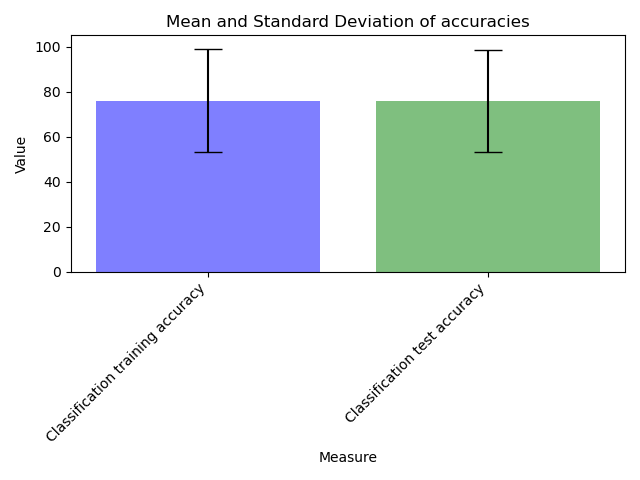
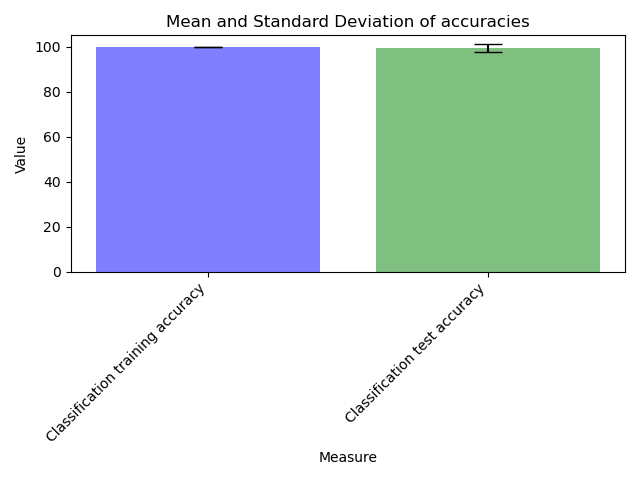
First differential experiments

diff --git a/main.py b/main.py
@@ -21,7 +21,7 @@ def main():
     EPOCHS = 150
     # -1 training subcortex 0 training cortex, 1 sanity check, 2 and 3 training/testing subcort and cort, 4 and 5 plotting subcort and cort,
     # 6 test full brain, 7 step-wise analysis
-    TRAINING = 7
+    TRAINING = 4
 
     device = torch.device("cuda" if torch.cuda.is_available() else "cpu")
 
@@ -120,9 +120,9 @@ def main():
     elif TRAINING == 4:
         measures = np.load('measures_subcortex.npy')
         brightnesses = np.load('brightnesses_subcortex.npy')
-        plot_accuracy(measures[:, :2], True, False)
-        plot_ratio(measures[:, 2:], True, False)
-        plot_equal_brightness(brightnesses, True, False, True)
+        plot_accuracy(measures[:, :2], True, True)
+        plot_ratio(measures[:, 2:], True, True)
+        plot_equal_brightness(brightnesses, True, True, True)
 
     elif TRAINING == 5:
         measures = np.load('measures.npy')
@@ -142,11 +142,10 @@ def main():
 
         network = ANNBrain(cortex, subcortex)
 
-        accuracy, ratio = test_brain(network, cues, cue_labels, stimuli, stimuli_labels, device)
+        accuracy = test_brain(network, cues, cue_labels, stimuli, stimuli_labels, device)
+        print(accuracy)
 
-        measures = np.array([accuracy, ratio])
-
-        plot_brain(measures, False, False)
+        # plot_brain(measures, False, False) Deprecated: plots subcortex ratio when outputs are concatenated
 
     elif TRAINING == 7:
 

diff --git a/image_generator.py b/image_generator.py
@@ -77,23 +77,6 @@ def interleave(cues, cue_labels, stimuli, stimuli_labels) -> (npt.NDArray, List)
     return images, labels
 
 
-def generate_motor_labels(cue_labels, stimuli_labels) -> List:  # TODO: move this into utilfuncs
-
-    motor_labels = []
-    for cue_label, stimulus_label in zip(cue_labels, stimuli_labels):
-        match (cue_label, stimulus_label):
-            case (2, 0):  # PS, left brighter: left
-                motor_labels.append(0)
-            case (2, 1):  # PS, right brighter: right
-                motor_labels.append(1)
-            case (3, 0):  # AS, left brighter: right
-                motor_labels.append(1)
-            case (3, 1):  # AS, right brighter: left
-                motor_labels.append(0)
-
-    return motor_labels
-
-
 def generate_test_set() -> (npt.NDArray, List):
     """Generate test set using stimuli with 2 decimal positions (training set only uses 1 decimal position)"""
 

diff --git a/utilfuncs.py b/utilfuncs.py
@@ -1,4 +1,5 @@
 import torch
+from typing import List
 
 
 def stimuli_extractor(batch):
@@ -26,3 +27,20 @@ def get_possible_labels(cue_label, stimulus_label):
             motor_label = [0]
 
     return motor_label
+
+
+def generate_motor_labels(cue_labels, stimuli_labels) -> List:
+
+    motor_labels = []
+    for cue_label, stimulus_label in zip(cue_labels, stimuli_labels):
+        match (cue_label, stimulus_label):
+            case (2, 0):  # PS, left brighter: left
+                motor_labels.append(0)
+            case (2, 1):  # PS, right brighter: right
+                motor_labels.append(1)
+            case (3, 0):  # AS, left brighter: right
+                motor_labels.append(1)
+            case (3, 1):  # AS, right brighter: left
+                motor_labels.append(0)
+
+    return motor_labels

diff --git a/testing.py b/testing.py
@@ -164,18 +164,11 @@ def test_brain(network, cues, cue_labels, stimuli, stimuli_labels, device):
             total += predicted.size(0)
             correct_classified += 1 if predicted in labels else 0
 
-            if cue_label == 2:
-                total_subcortex += predicted.size(0)
-                if predicted.item() > 1:
-                    used_subcortex += predicted.size(0)
-
     classification_accuracy = 100 * correct_classified / total
-    subcortex_ratio = 100 * used_subcortex / total_subcortex
 
     print('Classification accuracy: ' + str(classification_accuracy))
-    print('Subcortex ratio: ' + str(subcortex_ratio))
 
-    return classification_accuracy, subcortex_ratio
+    return classification_accuracy
 
 
 def get_outputs(network, cues, stimuli):

diff --git a/test_dynamics.py b/test_dynamics.py
@@ -1,0 +1,34 @@
+import numpy as np
+import matplotlib.pyplot as plt
+
+total_time = 1000
+t_constant = 10  # seconds
+dt = [0.01, 0.1, 1, 10, 100, 1000]
+x0 = 1
+
+
+def formula(a):
+    return - a / t_constant
+
+
+values = np.zeros((len(dt), total_time))
+for i in range(len(dt)):
+    x = x0
+    for j in range(total_time):
+
+        x = x + dt[i] * formula(x)
+        print(x)
+        values[i, j] = x
+
+for i in range(4):
+    plt.plot(values[i, :], label=f'Timestep size: {dt[i]}')
+
+plt.legend()
+plt.show()
+
+plt.clf()
+for i in range(4, 6):
+    plt.plot(values[i, :], label=f'Timestep size: {dt[i]}')
+
+plt.legend()
+plt.show()

diff --git a/brain.py b/brain.py
@@ -25,9 +25,9 @@ class ANNBrain(nn.Module):
 
         x_cortex = self.cortex(x, cue)
 
-        x = torch.cat([x_cortex, x_subcortex], dim=1)
+        # x = torch.cat([x_cortex, x_subcortex], dim=1)
 
-        return x
+        return x_subcortex + x_cortex
 
     def forward_step(self, x, cue=None):
         while type(x) is list:  # dirty trick: not yet sure why it's necessary (might be due to 1-n batches)
